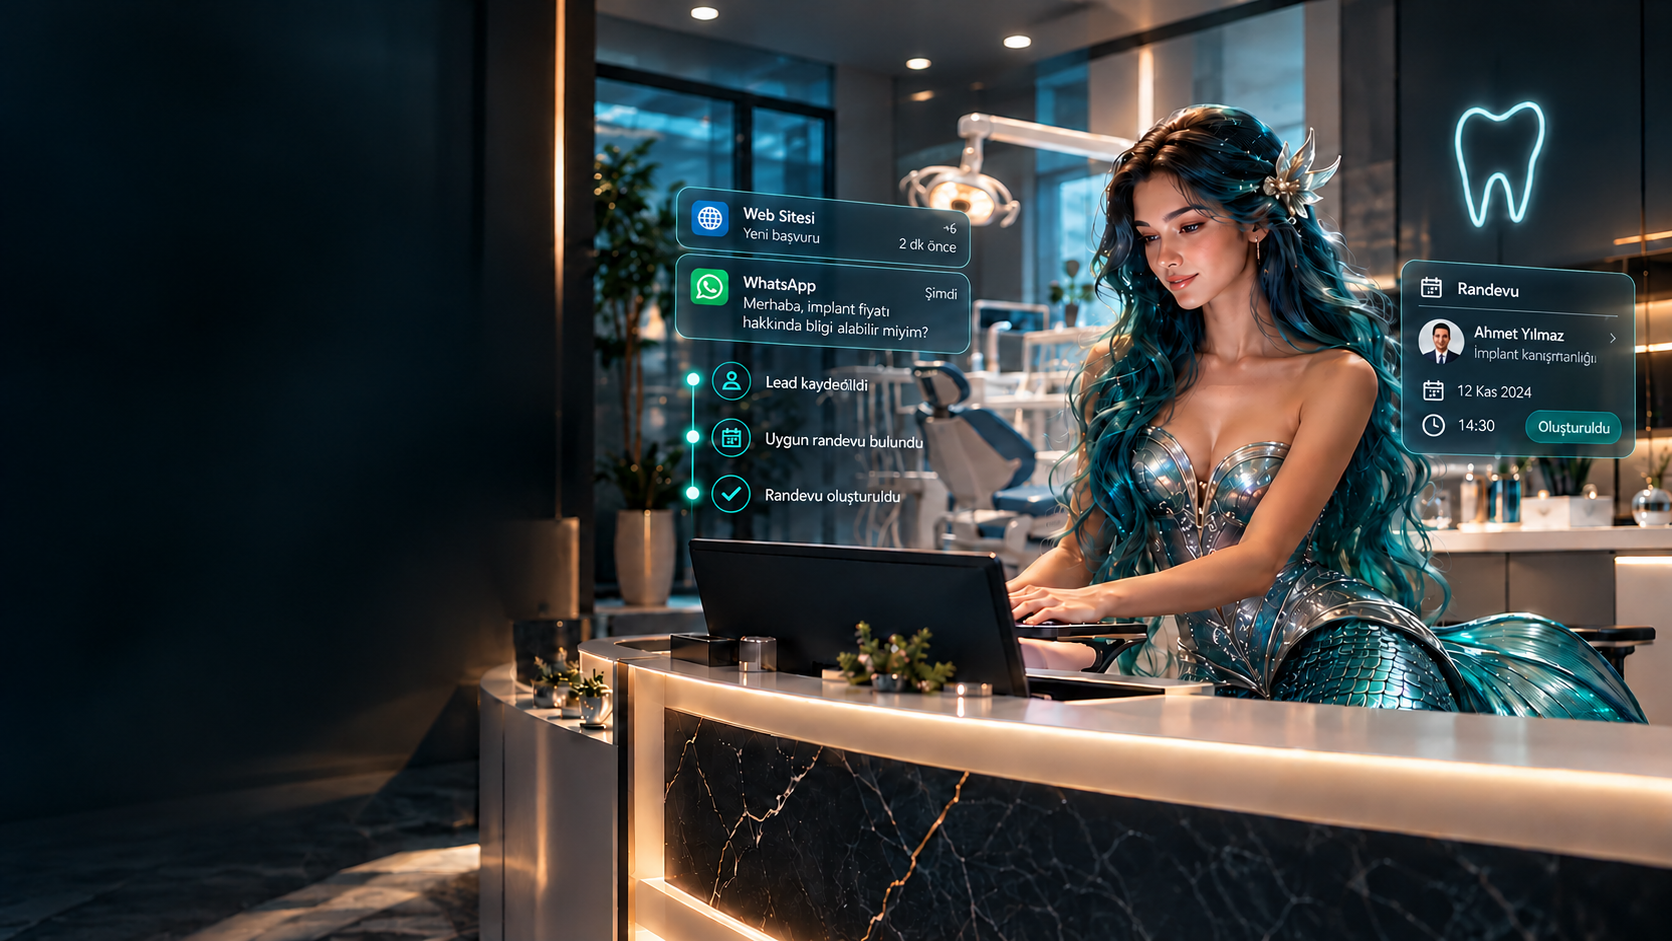
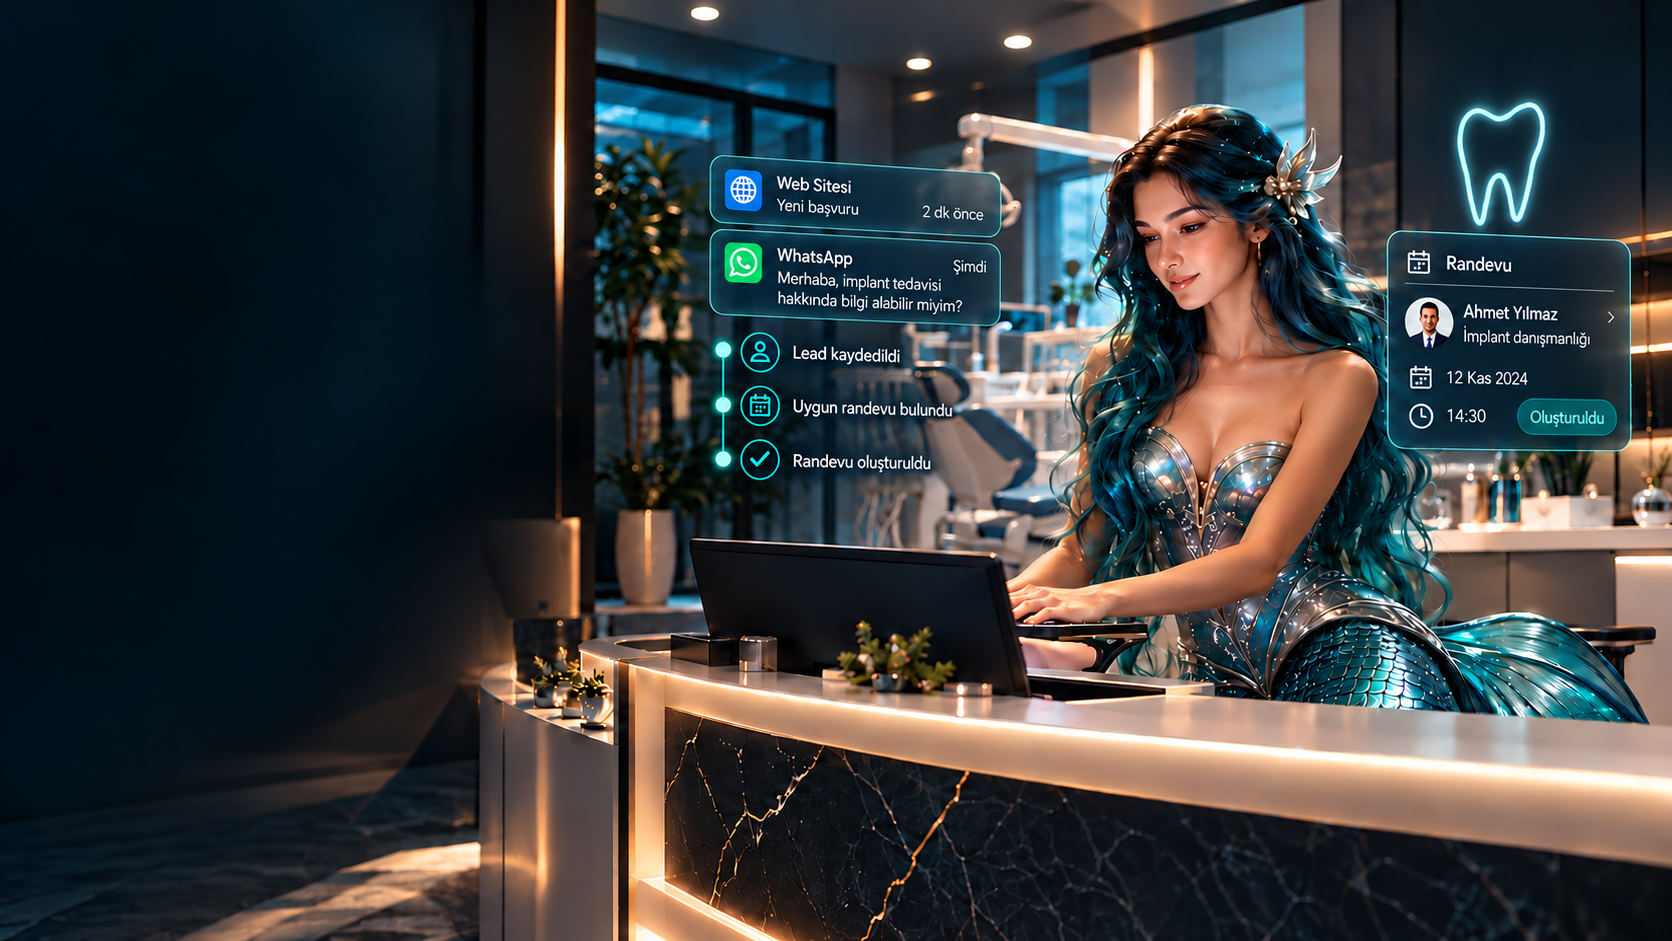
Use final approved hero background

diff --git a/src/index.css b/src/index.css
@@ -130,7 +130,7 @@
 
   .hero-section__background {
     background-image: url('/images/richtai-dental-hero-final.png');
-    background-position: 60% center;
+    background-position: 54% center;
     background-repeat: no-repeat;
     background-size: cover;
   }
